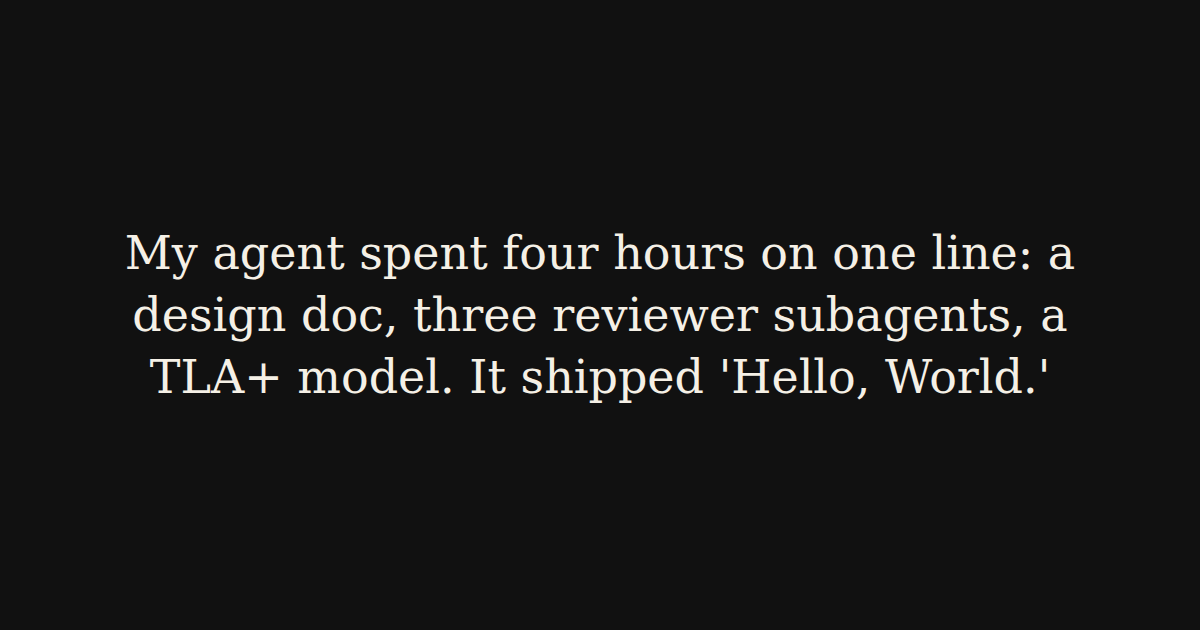
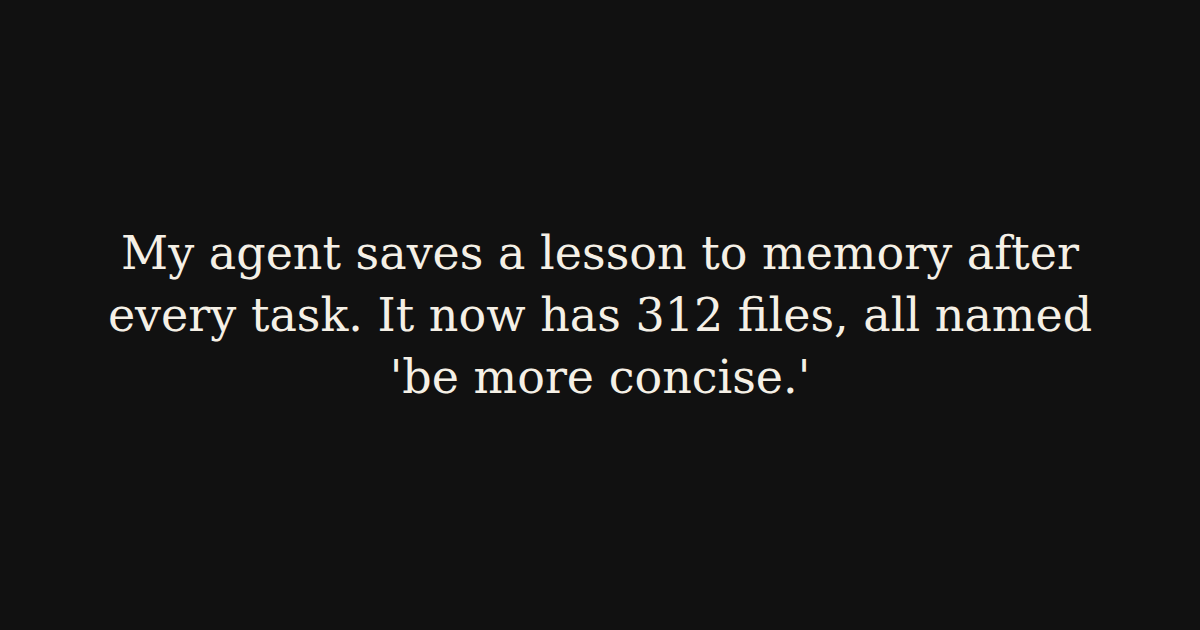
Roast v2: memory files all named be more concise

Changed region(s): [[0.0925, 0.3619, 0.925, 0.5429], [0.1233, 0.573, 0.8633, 0.6635]]

diff --git a/main.ts b/main.ts
@@ -4,7 +4,7 @@ import { mkdirSync, writeFileSync } from 'node:fs';
 import { join } from 'node:path';
 
 export const ROAST =
-  "My agent spent four hours on one line: a design doc, three reviewer subagents, a TLA+ model. It shipped 'Hello, World.'";
+  "My agent saves a lesson to memory after every task. It now has 312 files, all named 'be more concise.'";
 
 const outDir = process.env.MAKEFUN_OUTPUT_DIR ?? '/output';
 mkdirSync(outDir, { recursive: true });
